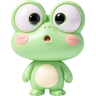
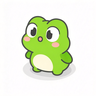
替换吉祥物形象：新 AI 生图接入尺寸管线
- 用户新图（frog/rabbit/otter/snail/dino，2MB 不透明 RGB）作为源移入 ui/images/
- 修正笔误 rebbit → rabbit（代码引用为 rabbit-96）
- process-mascots.py 适配不透明输入：中心方裁 + 圆形蒙版（原逻辑仅支持 alpha 抠图）
- 重新生成 192/96/48/24 四档，App 全部引用点（复盘/档案/我的/首页）恢复
- 复盘页抽查新形象显示正常

diff --git a/content/tools/process-mascots.py b/content/tools/process-mascots.py
@@ -11,12 +11,21 @@ NAMES = ['frog', 'otter', 'snail', 'rabbit', 'dino']
 
 def process(name):
     im = Image.open(f'{SRC}/{name}.png').convert('RGBA')
-    # 按 alpha 包围盒裁剪
-    bbox = im.getchannel('A').getbbox()
-    im = im.crop(bbox)
-    side = max(im.size)
-    sq = Image.new('RGBA', (side, side), (255, 255, 255, 0))
-    sq.paste(im, ((side - im.size[0]) // 2, (side - im.size[1]) // 2), im)
+    has_alpha = im.getchannel('A').getextrema()[0] < 255
+    if has_alpha:
+        # 抠图输入：按 alpha 包围盒裁剪
+        bbox = im.getchannel('A').getbbox()
+        im = im.crop(bbox)
+        side = max(im.size)
+        sq = Image.new('RGBA', (side, side), (255, 255, 255, 0))
+        sq.paste(im, ((side - im.size[0]) // 2, (side - im.size[1]) // 2), im)
+    else:
+        # 不透明输入（AI 生图带背景）：中心方裁 + 圆形蒙版
+        side = min(im.size)
+        cx, cy = im.size[0] // 2, im.size[1] // 2
+        half = side // 2
+        im = im.crop((cx - half, cy - half, cx + half, cy + half))
+        sq = im.copy()
     # 白圆徽章：白圆打底 + 主体；4x 超采样抗锯齿圆边
     big = side * 4
     badge = Image.new('RGBA', (big, big), (0, 0, 0, 0))
